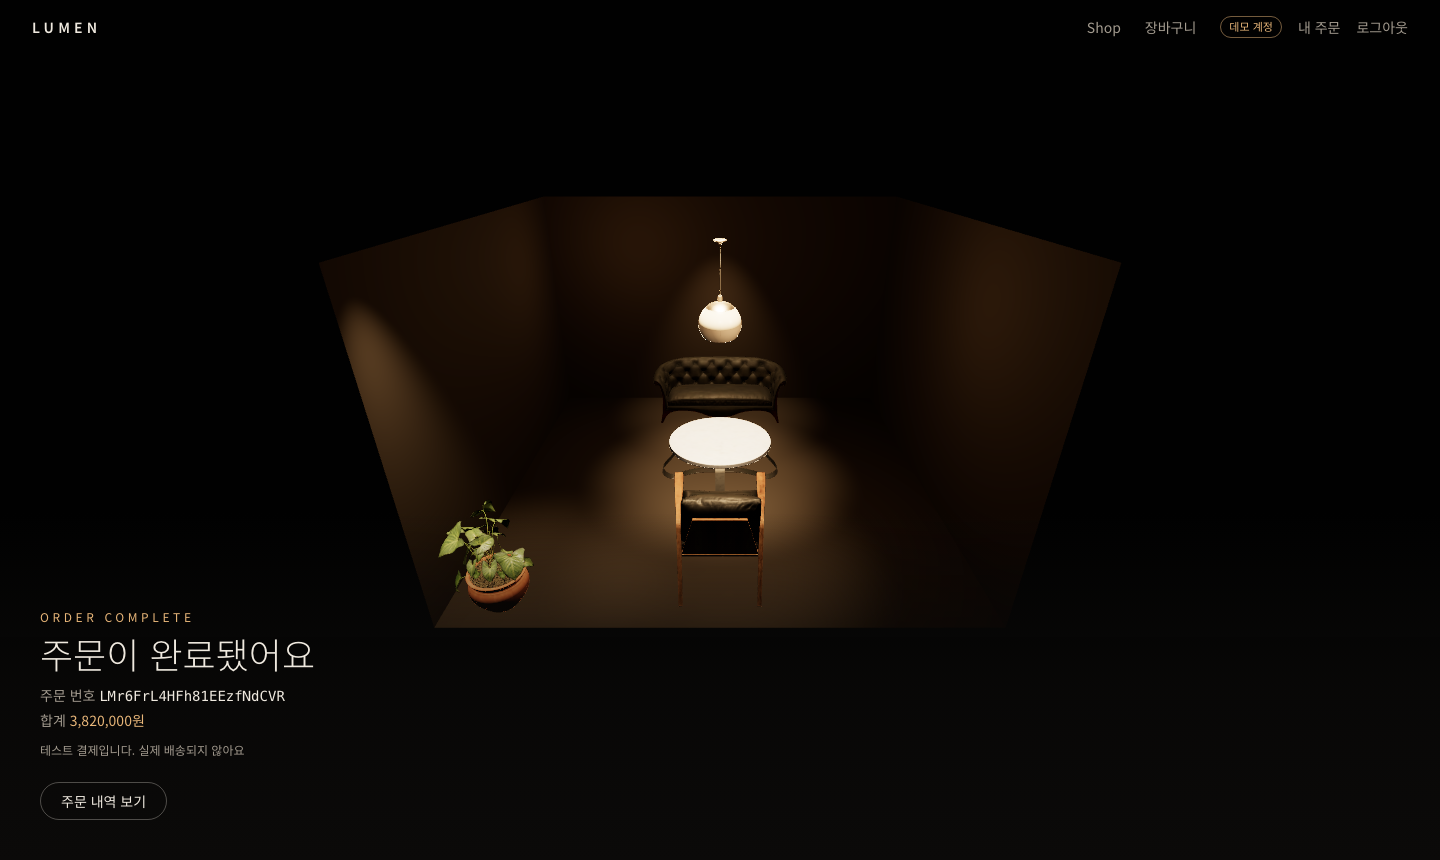
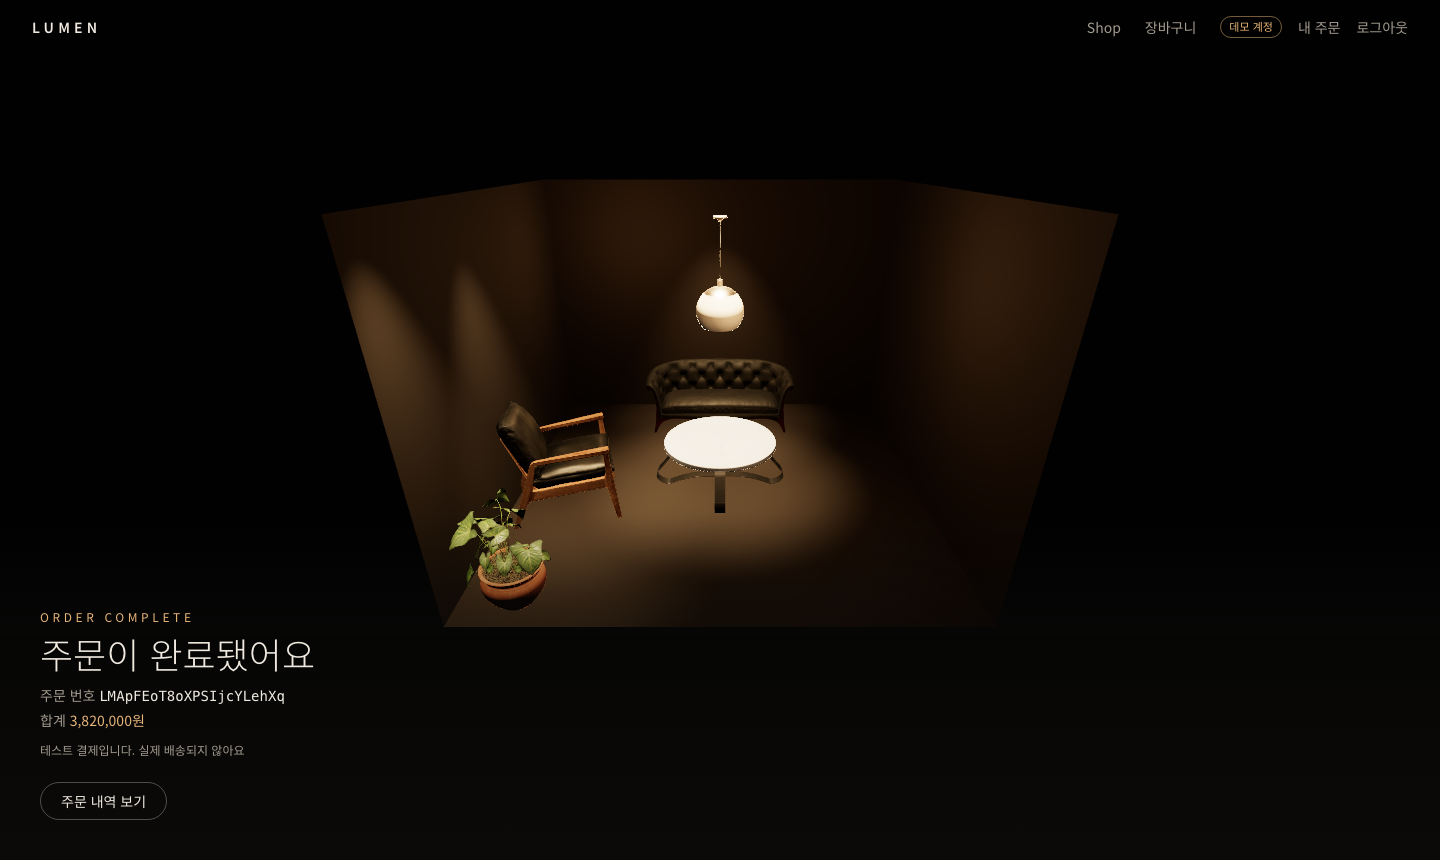
feat: LUMEN 카드 — 테스트 158건, 고친 장면으로 스크린샷 교체
LUMEN 에서 미뤄 뒀던 작은 문제들을 정리하고 운영에 배포했다. 카드에
남아 있던 스크린샷이 고치기 전 장면이라 바꿨다.

- 장바구니: 같은 의자 둘 모두에 강조 조명이 떨어지는 장면
  (전에는 첫 번째 의자에만 떨어졌다)
- 결제 완료: 의자가 테이블 옆으로 가서 테이블이 가려지지 않는 장면
- 테스트 140건 → 158건(단위 82 · DB 통합 24 · e2e 52). 끊긴 요청을
  일부러 만들어 재현한 테스트가 늘었다.
- docs/project-data.md: 상품 상세 LCP 5.1s 가 시뮬레이션 추정이었다는
  재측정 결과와 이번에 고친 목록. font-charset.lock 은 새 글자 반영.

diff --git a/src/data/projects.ts b/src/data/projects.ts
@@ -503,9 +503,9 @@ export const projects: readonly Project[] = [
       },
       {
         label: "테스트",
-        value: "140건",
+        value: "158건",
         kind: "measured",
-        note: "단위 73 · DB 통합 22 · Playwright 45 · 금액 위조 · 새로고침 재승인 · 남의 주문 404 포함",
+        note: "단위 82 · DB 통합 24 · Playwright 52 · 금액 위조 · 새로고침 재승인 · 남의 주문 404 · 끊긴 요청 재현 포함",
       },
       {
         label: "결제",

diff --git a/docs/project-data.md b/docs/project-data.md
@@ -211,7 +211,10 @@ SHOPPY(React 18 패션 커머스)를 내리고 이 자리에 올렸다(2026-11-0
 - 운영 확인에서 막힌 것 두 가지(README 7장): 토스 API 키 접근 정책(대한민국 IP 만 허용)이 싱가포르 함수를 403 으로 막음 → 정책 삭제.
   카카오 리다이렉트 URI 미등록(KOE006) → 등록. 둘 다 코드 문제가 아니라 외부 콘솔 설정이었다.
 - 2차 운영 성능은 lumen `docs/perf/phase2.md`(운영 주소 기준이라 1차 로컬 수치와 나란히 비교하지 않는다). 상품 상세 모바일 LCP 5.1s 는
-  개선 전이라 카드 지표에 넣지 않는다.
+  Lighthouse 12 시뮬레이션 추정이었고 실제 그려지는 시점은 0.3~0.5초였다(2026-11-04 재측정). 버전에 따라 0.9~5.4s 로 흔들리는
+  숫자라 카드 지표에 넣지 않는다.
+- 2026-11-04 미뤄 둔 문제 정리: 데모 계정 IP 한도, 끊긴 장바구니 저장 재전송, 같은 가구 여러 개 강조, 완료 장면 의자 배치,
+  쇼룸 이름표 겹침, three.js 청크 요청을 load 뒤로, (새로 찾은) 로그인 확인 중 담기 두 배. 스크린샷 cart · complete 교체.
 
 근거는 2026-11-02 에 직접 잰 값이다. 측정 방법 전체는 lumen 저장소 `docs/perf/phase1.md`.
 
@@ -222,7 +225,7 @@ SHOPPY(React 18 패션 커머스)를 내리고 이 자리에 올렸다(2026-11-0
 | CLS (상품 상세) | 0.003 | 0.373 | `/products/ember-sofa`, 같은 조건. 3D 영역 `dynamic()` 의 loading 에 같은 크기 자리를 줌. Performance 0.22 → 0.71 |
 | 쇼룸 fps | 59.6 | | M1 · Chromium(WebGPU) · `?tier=2&adaptive=off` · 1440×900 · 41단계 스크롤 · 하위 10% 59 · 최저 55 |
 | 3D 모델 | 20개 · 33MB | | `public/models/manifest.json` 합계. 1k 는 전부 2MB 이하(캔들 홀더만 텍스처 512로 줄임) |
-| 테스트 | 140건 | | 2차 후. `npm run check` 단위 73 · `npm run test:db` 통합 22 · `npm run test:e2e` 45. 커밋 `54f5bf2`, 2026-11-03 (1차 때는 56건: 38 · 18) |
+| 테스트 | 158건 | | 미뤄 둔 문제 정리 후. `npm run check` 단위 82 · `npm run test:db` 통합 24 · `npm run test:e2e` 52. 커밋 `7a63976`, 2026-11-04 (2차 배포 때 140건 · 1차 때 56건) |
 | 결제 | 서버 재계산 · 승인 1회 | | `src/orders/confirm.ts` · `src/payments/toss.ts`. 금액 불일치 거부(통합 · e2e), 완료 새로고침 재승인 없음(e2e), Idempotency-Key = orderId |
 | 렌더러 | WebGPU → WebGL2 → 이미지 | | `src/three/capability.ts` · `createRenderer.ts` |
 | 품질 조절 | 3단계 · 1초마다 | | `src/three/quality/policy.ts` · `presets.ts` |
